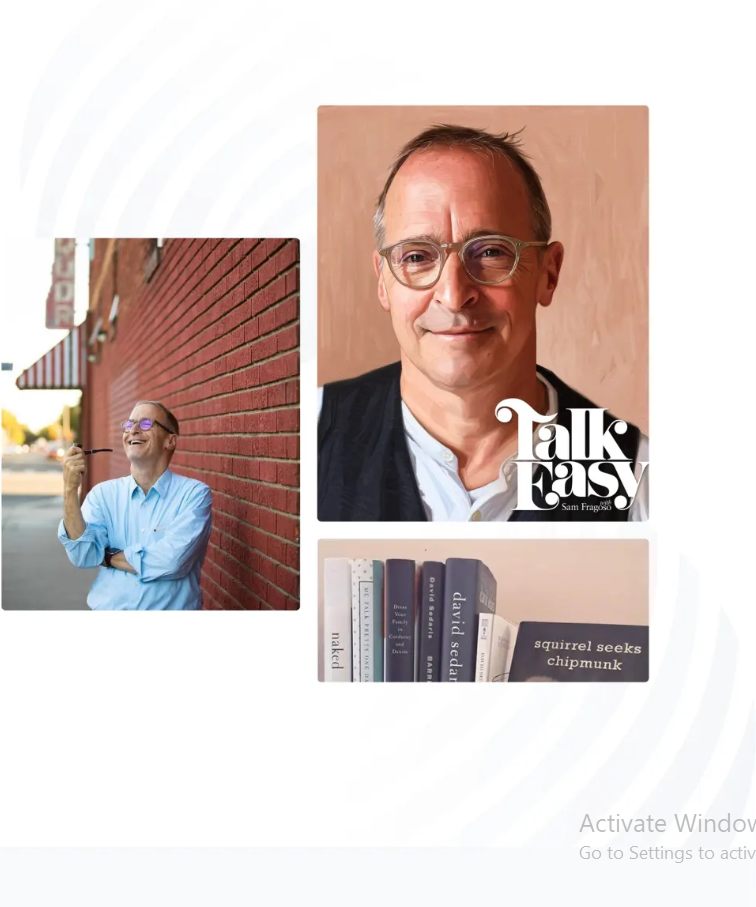
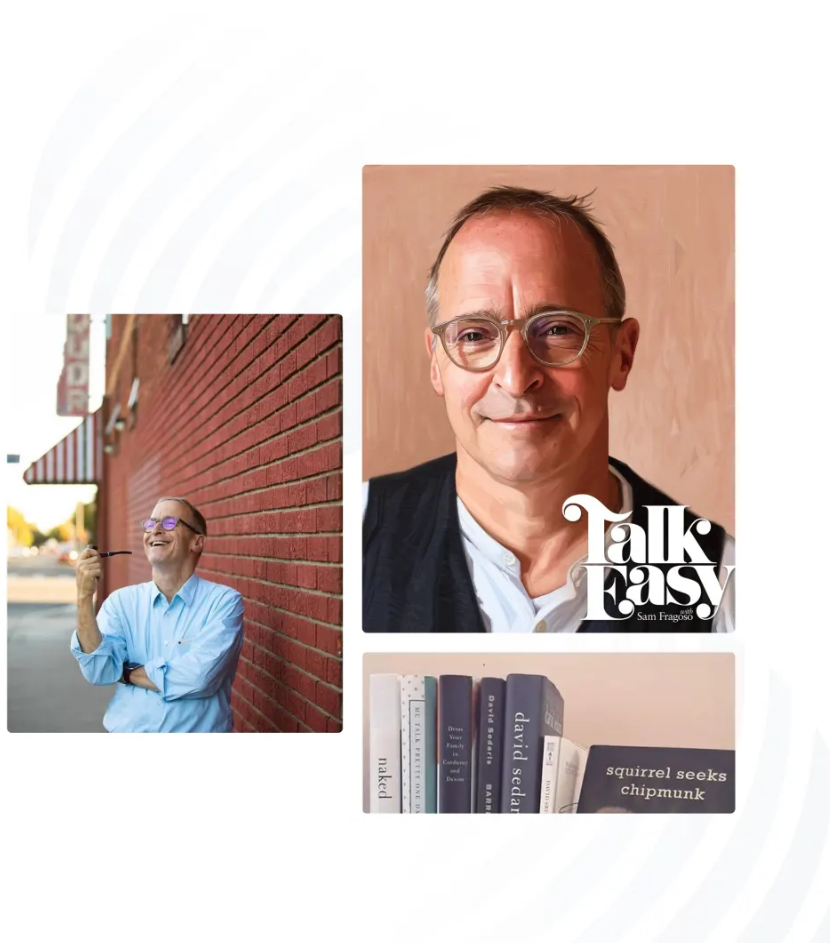
gsap

diff --git a/app/components/BookIntro.js b/app/components/BookIntro.js
@@ -1,11 +1,27 @@
-'use client'
+"use client";
 
-import React from 'react'
+import React, { useRef } from "react";
+import { useGSAP } from "@gsap/react";
+import { gsap } from "gsap";
 
 export default function ProductSection() {
+  const Des = useRef();
+  const ImgRef = useRef();
+  useGSAP(() => {
+    gsap.from(Des.current, {
+      y: 360,
+      duration: 2,
+      opacity: 0,
+      scrollTrigger: {
+        trigger: ImgRef,
+        scroller: "body",
+        markers: true,
+        start: "top 50%",
+      },
+    });
+  });
   return (
-    <div className="relative isolate mx-auto max-w-7xl overflow-hidden bg-white px-6 py-24 sm:py-32 lg:overflow-visible lg:px-0">
-
+    <div className="relative isolate mx-auto max-w-7xl overflow-hidden bg-white px-6 py-24 sm:py-32 lg:overflow-visible lg:px-0" ref={Des}>
       <div className="mx-auto grid max-w-2xl grid-cols-1 lg:gap-x-60 gap-x-8 gap-y-16 lg:mx-0 lg:max-w-none lg:grid-cols-2 lg:items-start lg:gap-y-10">
         <div className="lg:col-span-1 lg:col-start-2 lg:row-start-1 lg:mx-auto lg:grid lg:w-full lg:max-w-7xl lg:grid-cols-1 lg:gap-x-8 lg:px-8">
           <div className="lg:pr-4">
@@ -14,40 +30,40 @@ export default function ProductSection() {
                 <span className="text-base/7 leading-10">David Sedaris</span>
                 The "champion storyTeller,"
               </h3>
-              <h3 className='text-3xl text-[#111] leading-10 font-semibold'>(Los Angeles Times) returns with his first new collection of personal essays since
-                the bestselling Calypso.
+              <h3 className="text-3xl text-[#111] leading-10 font-semibold">
+                (Los Angeles Times) returns with his first new collection of
+                personal essays since the bestselling Calypso.
               </h3>
               <h2 className="py-6 text-4xl font-semibold tracking-tight text-pretty text-gray-900 sm:text-5xl">
                 Happy-Go-Lucky
               </h2>
               <p className="mt-6 text-2xl text-gray-500 font-sans">
-                In <span className='font-medium text-[#111]'>Happy-Go-Lucky,</span>
-                David Sedarisis once again captures what is most unexcepted,hilarious
-                and poignant about these recent upheavels, personal and public and
-                expresses in precise language both the misanthropy and desire for connection
-                that drive us all. If we must live in interesting times, there is no one better
-                to chronicle them than the incomparable David Sedaris.
+                In{" "}
+                <span className="font-medium text-[#111]">Happy-Go-Lucky,</span>
+                David Sedarisis once again captures what is most
+                unexcepted,hilarious and poignant about these recent upheavels,
+                personal and public and expresses in precise language both the
+                misanthropy and desire for connection that drive us all. If we
+                must live in interesting times, there is no one better to
+                chronicle them than the incomparable David Sedaris.
               </p>
             </div>
-            <div className='pt-20'>
-              <h4 className='text-2xl'>
+            <div className="pt-20">
+              <h4 className="text-2xl">
                 4.5
-                <span className='text-gray-400'>
-                  /5- from 4,114 ratings
-                </span>
+                <span className="text-gray-400">/5- from 4,114 ratings</span>
               </h4>
-              <img className='pt-3' src='assets/Amazon_Logo.png' alt='/'/>
+              <img className="pt-3" src="assets/Amazon_Logo.png" alt="/" />
             </div>
           </div>
         </div>
         {/* Book Image*/}
-        <div className="-mt-12 p-12 lg:sticky lg:top-4 lg:col-start-1 lg:row-span-2 lg:row-start-1 lg:overflow-hidden ">
+        <div className="-mt-12 p-12 lg:sticky lg:top-4 lg:col-start-1 lg:row-span-2 lg:row-start-1 lg:overflow-hidden" ref={ImgRef}>
           <img
             alt="/"
             src="assets/Book.png"
             className="w-lg mx-auto sm:w-[528px] max-w-none rounded-xl bg-gray-900 shadow-xl ring-1 ring-gray-400/10 "
           />
-
         </div>
 
         {/* <div className="lg:col-span-1 lg:col-start-2 lg:row-start-2 lg:mx-auto lg:grid lg:w-full lg:max-w-7xl lg:grid-cols-1 lg:gap-x-8 lg:px-8">
@@ -98,8 +114,7 @@ export default function ProductSection() {
             </div>
           </div>
         </div> */}
-
       </div>
     </div>
-  )
+  );
 }

diff --git a/app/components/hero.js b/app/components/hero.js
@@ -1,59 +1,61 @@
-
-'use client'
-import React from 'react'
-import { HeroItems } from '../constant'
-import Link from 'next/link'
-import { Minus } from 'lucide-react'
-
+"use client";
+import React, { useRef } from "react";
+import { HeroItems } from "../constant";
+import Link from "next/link";
+import { Minus } from "lucide-react";
 export default function Hero() {
   
-    return (
-      <div className="bg-white">
-        <div className="mx-auto max-w-7xl">
-          <div className="px-6 pt-8 sm:px-16 md:pt-16 lg:flex items-center lg:gap-x-60 lg:px-0 lg:pt-0">
-            {/* Hero Description */}
-            <div className="mx-auto max-w-md text-center lg:mx-0 lg:flex-auto lg:py-32 lg:text-left">
-              <p className="text-base/7 text-gray-500 leading-10 flex items-center justify-center lg:justify-start"><Minus/> David Sedarisis</p>
-              <h2 className="text-[#111] text-6xl font-medium leading-18">
-               The "champion storyTeller,"
-              </h2>
-               <span className='text-3xl text-[#111] leading-10'>(Los Angeles Times)</span>
-              <p className="mt-6 text-lg/8 text-pretty text-gray-400">
+  return (
+    <div className="bg-white">
+      <div className="flex justify-center my-10">
+        <div className="px-6 pt-8 sm:px-16 md:pt-16 lg:flex items-center lg:gap-x-60 lg:px-0 lg:pt-0">
+          {/* Hero Description */}
+          <div className="mx-auto max-w-md text-center lg:mx-0 lg:flex-auto lg:py-32 lg:text-left">
+            <p className="text-base/7 text-gray-500 leading-10 flex items-center justify-center lg:justify-start">
+              <Minus /> David Sedarisis
+            </p>
+            <h2 className="text-[#111] text-6xl font-medium leading-18">
+              The "champion storyTeller,"
+            </h2>
+            <span className="text-3xl text-[#111] leading-10">
+              (Los Angeles Times)
+            </span>
+            <p className="mt-6 text-lg/8 text-pretty text-gray-400">
               David Sedarisis the best selling author of the books Calypso,
-              Theft by Finding,Let's Explore 
-              Diabetes with Owls, Squirrels Seeks e.t.c. 
-              </p>
-              <div className="mt-6 flex items-center justify-center lg:justify-start gap-x-6">
+              Theft by Finding,Let's Explore Diabetes with Owls, Squirrels Seeks
+              e.t.c.
+            </p>
+            <div className="mt-6 flex items-center justify-center lg:justify-start gap-x-6">
               <Link
                 href="#"
                 className="rounded-md bg-[#111] px-7.5 py-4.5 text-sm font-semibold text-white shadow-xs hover:bg-gray-400 focus-visible:outline-2 focus-visible:outline-offset-2 focus-visible:outline-gray-400"
               >
                 Read More
               </Link>
-              <Link href="#" className="text-[1rem] font-semibold text-gray-900 hover:underline">
-                Check My Work 
+              <Link
+                href="#"
+                className="text-[1rem] font-semibold text-gray-900 hover:underline"
+              >
+                Check My Work
                 {/* <span aria-hidden="true">→</span> */}
               </Link>
             </div>
-            </div>
-            {/* Hero-Image */}
-            <div className="relative h-80 lg:mt-0 mb-30 lg:mb-0">
-              {HeroItems.map((item,key)=>
-              <img key={key}
-              alt={item.alt}
-              src={item.src}
-            //   width={1800}
-            //   height={1080}
-              className="relative mx-auto left-0 lg:left-20 top:0 lg:bottom-40 lg:w-[40rem] w-[25rem] max-w-none rounded-md"
-              />
-            )  
-            }
-            </div>
           </div>
-          
+          {/* Hero-Image */}
+          <div className="relative h-80 lg:mt-0 mb-30 lg:mb-0">
+            {HeroItems.map((item, key) => (
+              <img
+                key={key}
+                alt={item.alt}
+                src={item.src}
+                //   width={1800}
+                //   height={1080}
+                className="relative left-0 lg:left-15 mx-auto -bottom-11 lg:bottom-47 lg:w-[40rem] w-[26rem] max-w-none rounded-md"
+              />
+            ))}
+          </div>
         </div>
-        
       </div>
-    )
-  }
-  
+    </div>
+  );
+}

diff --git a/app/components/navbar.js b/app/components/navbar.js
@@ -26,7 +26,7 @@ function Navbar() {
         <nav className={`sticky top-0 z-50 border-b border-neutral-200 text-black ${color ? 'bg-[#f8fafb]' : ''}`} >
             <div className="container lg:px-28 mx-auto relative text-sm backdrop-blur-lg">
                 <div className="flex justify-between items-center py-6">
-                    <Link href='/' className='pl-5'>
+                    <Link href='/' className='pl-5 lg:pl-0'>
                         {/* <img src='/' alt="Logo" /> */}
                         Author Name
                     </Link>
